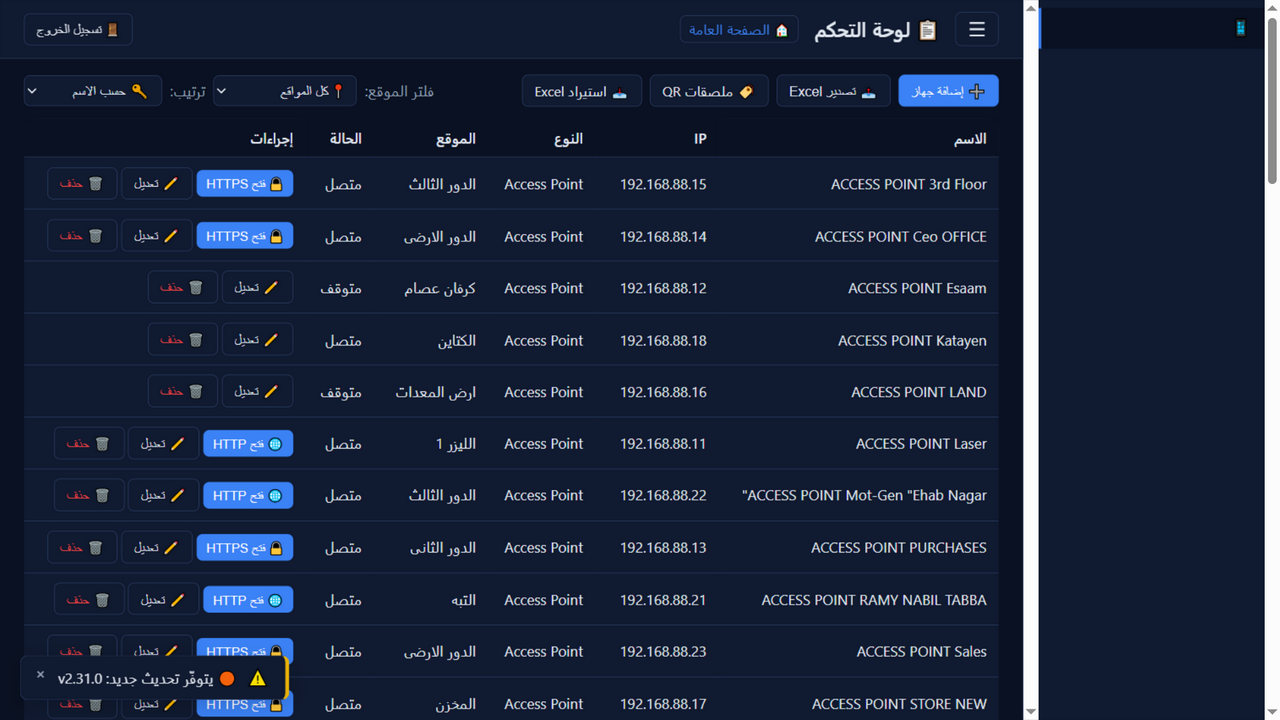
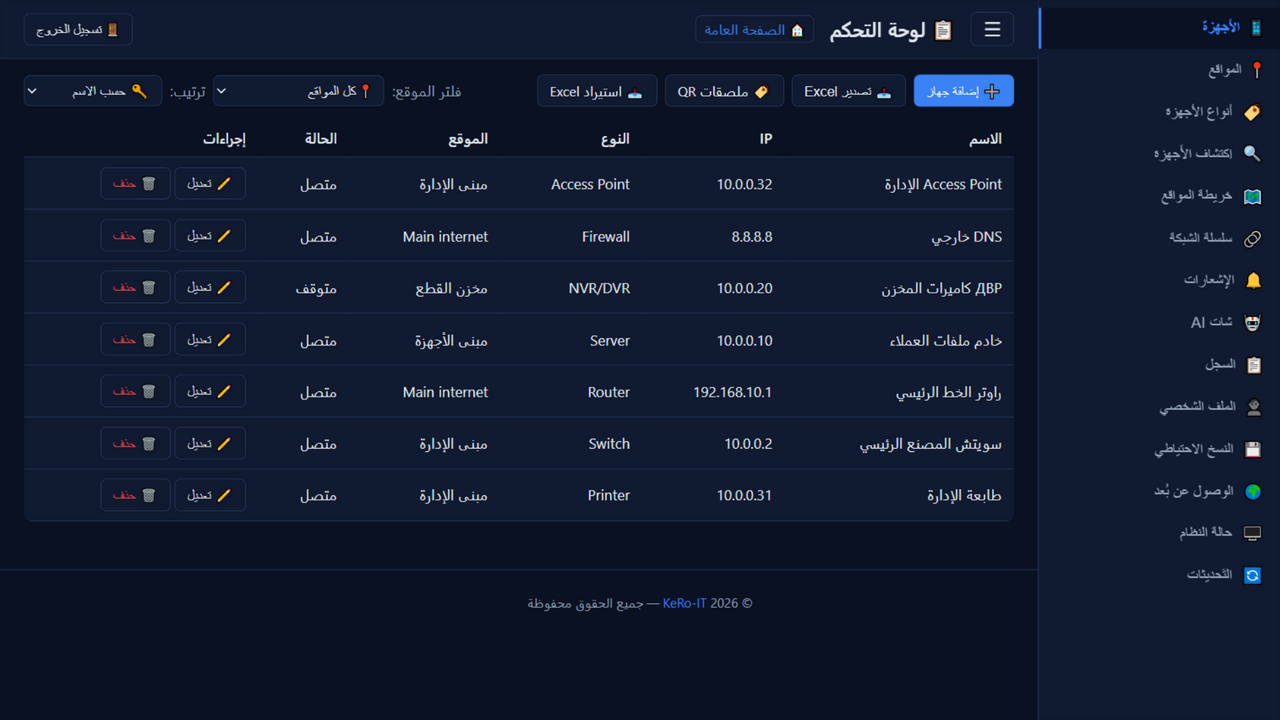
v2.31.1: 🔒 لقطات README بوهمية (خصوصية شبكة المستخدم) + إصلاح bump المفقود في v2.31.0

diff --git a/README.md b/README.md
@@ -1,6 +1,6 @@
 # 📡 نظام مراقبة أجهزة الشبكة المحلية - Network Monitor
 
-[![Version](https://img.shields.io/badge/version-2.31.0-blue.svg)](https://github.com/kerolos-it2022/network-monitor/releases)
+[![Version](https://img.shields.io/badge/version-2.31.1-blue.svg)](https://github.com/kerolos-it2022/network-monitor/releases)
 [![CI](https://github.com/kerolos-it2022/network-monitor/actions/workflows/ci-cd.yml/badge.svg)](https://github.com/kerolos-it2022/network-monitor/actions/workflows/ci-cd.yml)
 [![Node.js](https://img.shields.io/badge/Node.js-20%2B-green.svg)](https://nodejs.org/)
 [![PWA](https://img.shields.io/badge/PWA-ready-purple.svg)](https://web.dev/progressive-web-apps/)
@@ -8,7 +8,7 @@
 
 > **نظام مراقبة احترافي** لأجهزة الشبكة المحلية (فايروول، طابعات، NVR/DVR، سويتشات، راوترات، سيرفرات...) مع مراقبة لحظية، إدارة شاملة، وإشعارات فورية عبر **Telegram** و **WhatsApp** و **تطبيق الموبايل (PWA)**.
 
-> 🌟 **الإصدار الحالي: v2.31.0** — 📡 نافذة تفاصيل جهاز موسّعة (شارة «إنترنت أم محليًّا فقط» بالاستدلال + نسب تشغيل 24/7/30) · 🏷 ملصقات QR لكل جهاز (مسحة موبايل = تفاصيل كاملة) · 🎨 هوية NOC الدائمة لكل الصفحات.
+> 🌟 **الإصدار الحالي: v2.31.1** — 📡 نافذة تفاصيل جهاز موسّعة (شارة «إنترنت أم محليًّا فقط» بالاستدلال + نسب تشغيل 24/7/30) · 🏷 ملصقات QR لكل جهاز (مسحة موبايل = تفاصيل كاملة) · 🎨 هوية NOC الدائمة لكل الصفحات.
 
 ## ✨ لقطات من النظام
 

diff --git a/CHANGELOG.md b/CHANGELOG.md
@@ -60,6 +60,17 @@
 - المسار الداخلي توسّع إلى `['/', '/devices', '/labels/devices']` — والجلسة/التوجيه،
   اليع Masqn: 39 ملصقًا بيQR لكل جهاز مختبر محليًّا، وبدون جلسة ⇒ تحويل للدخول (302).
 
+## [2.31.1] - 2026-10-15
+
+### 🔒 خصوصية + إصلاح ترقيم (ملاحظة المستخدم + جرد الذاتي)
+
+- **لقطات README استُبدلت بنسخ وهمية منشورة على خادم تجريبي** (7 أجهزة بالمسميات:
+  «سويتش المصنع الرئيسي · خادم ملفات العملاء · DVR كاميرات المخزن…» وIPs وهمية
+  10.0.0.x) — بدل اللقطات الحقيقية التي كانت تكشف أسماء نقاط النشر وIPs شبكة
+  المستخدم على GitHub العلني.
+- إصلاح ترقيم مفقود: صفة v2.31.0 كانت خرجت **بدون bump package.json** (bالنسبة للوقف
+  الذي سبق) — الآن v2.31.1 مطابقة (المستخدم أخطأ بidها بعد التحديث).
+
 ## [2.31.0] - 2026-10-15
 
 ### 📡 نافذة تفاصيل الجهاز الموسعة + شارة «إنترنت أم محليًّا فقط» (طلب المستخدم)
